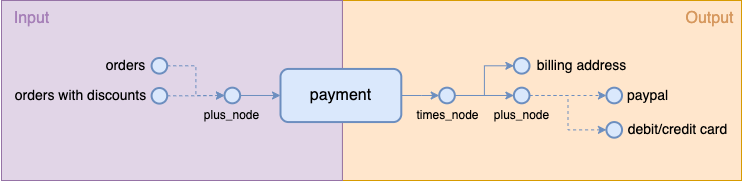
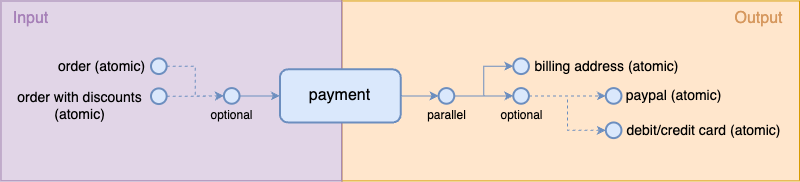
docs(overleaf): editing background

diff --git a/overleaf/chapters/background.tex b/overleaf/chapters/background.tex
@@ -2,22 +2,37 @@
 % Business Process Management (BPM) is a methodology that involves designing, controlling, and analysing business processes to support organisations \cite{bpmdefinition}. 
 % BPM's stages is defined differently depending on references \cite{bpmlifecycles, bpmlifecycles2, bpmlifecycles3}; however, it generally consists of at least four stages: i) analysing; ii) modeling; iii) implementing; iv) executing.
 % As for BPM tools, they are software solutions that support organisations in all stages of BPM with little to no coding knowledge. As a consequence, BPM tools are widely used in various industries.
-Business Process Management (BPM) is a concept that assist business analysts in planning, monitoring and analysing business processes to support organisations \cite{bpmdefinition}. BPM could be separated into stages depending on references being used \cite{bpmlifecycles, bpmlifecycles3, bpmlifecycles2}, but generally, it consists of four different stages: i) analysing; ii) modelling; iii) implementing; iv) execution. Software that makes use of this concept in assisting business analysts model processes with little to no coding knowledge is known as BPM tools.
+Business Process Management (BPM) is a discipline that assist business analysts in planning, monitoring and analysing processes to support businesses \cite{bpmdefinition}. BPM methodologies could generally be separated into four different stages: i) analysing; ii) modelling; iii) implementing; iv) execution \cite{bpmlifecycles, bpmlifecycles3, bpmlifecycles2}.
+BPM tools are software that makes use of this concept in assisting business analysts model processes with little to no coding knowledge to help businesses build automatic streamlining and reduce wastes in manufacturing processes 
+\cite{bpmtoolwaste}.
 
-One of the advantages of using BPM tools is the orchestration between systems, humans, and workflows \cite{bpmstrength}. This improves the overall efficiency of business processes in organisations \cite{bpmbenefits}. BPM tools use checklists that are integrated as part of a workflow to efficiently coordinate humans and workflows. For example, Bizagi \cite{bizagi}, one of the famous BPM tools, can construct checklists or forms within its automated workflows and connect the checklists to the following processes using the shared database technique. Nintex \cite{nintext} is another widely used BPM tool that also adopts the idea of checklist and implements it in their environment. This provides a variety of options for workflow users to interact with the workflows in the system.
+One of the advantages of using BPM tools is the orchestration between systems, humans, and workflows \cite{bpmstrength}.
+This improves the efficiency of business processes in organisations by formalising processing into structured methods that can be monitored, analysed, and automated easily \cite{bpmbenefits}.
+BPM tools use checklists that are integrated as part of a workflow to efficiently coordinate humans and workflows by integrating inputs into the workflow. For example, Bizagi \cite{bizagi}, one of the widely known BPM tools, can construct checklists or forms within its automated workflows and connect the checklists to the following processes using the shared database technique. Nintex \cite{nintext} is another widely used BPM tool that also adopts the idea of checklist and implements it in their environment. This provides a variety of options for workflow users to interact with the workflows in the system.
 
 
-\section{WorkflowFM: A logic-based framework for formal process specification and composition}
+\section{WorkflowFM}
 \label{background:workflowfm}
 
-% WorkflowFM \cite{papapanagiotou2017workflowfm} is a logic-based BPM tool developed by researchers from the University of Edinburgh. Being a logic-based framework means all the inputs, outputs, and processes follow the validation defined by the framework.
-% Each process is validated by WorkflowFM to ensure that it is logically valid and functional as a workflow.
-As a logic-based BPM tool, WorkflowFM differs from other frameworks in that it requires inputs and outputs in each process to match when connected to other processes, as opposed to most BPM tools which accept any viable XML format when creating a workflow.
+WorkflowFM \cite{papapanagiotou2017workflowfm} is a logic-based BPM tool developed by researchers from the University of Edinburgh. Being a logic-based framework means all the inputs, outputs, and processes follow the validation defined by the framework.
+Each process is validated by WorkflowFM to ensure that it is logically valid, correctly matched with neighbour processes, and functional as a workflow.
+As a logic-based BPM tool, WorkflowFM differs from other frameworks in that processes are defined based on inputs and outputs with preconditions, as opposed to most BPM tools which accept any Business Process Model and Notation (BPMN) \cite{bpmn} format when creating a workflow. Moreover, it requires the inputs and outputs in each process to match when connected to other processes.
 % Additionally, WorkflowFM requires defining data models for each input and output
 % only require a XML pattern to create a workflow as XML is the standardised format for BPM tools.
 % unlike various BPM tools which follows the XML Process Definition Language (XPDL), the standard format for interchanging process definitions between different BPM tools \cite{xmlpdl}.
 
-WorkflowFM's system architecture, as shown in Figure \ref{fig:workflowfm-system}, includes two main components: modelling and execution. Modelling is the part that allows workflow users to create workflows and validates workflows by the reasoner. On the other hand, execution is the component that operates workflows that has been deployed. Execution contains the execution engine, the simulation engine, the checklist generation, and the dashboard. The checklist generation connects with the execution engine as an extension to generate checklists and allow people to perform tasks for executing workflow processes.
+
+
+WorkflowFM's system architecture, as shown in Figure \ref{fig:workflowfm-system}, includes two main groups of components: modelling and execution. Modelling is the part that allows users to create workflows, and execution is the component that operates deployed workflows in the system. This project aims to build a checklist generation tool as an extension to the execution engine to help generate checklists in WorkflowFM and allow people to perform tasks through checklists for executing workflow processes.
+
+
+% , which contains two components: composer and reasoner. The composer component assists users in creating workflows, while the reasoner validates that the workflows produced by the composer adhere to the defined inputs and outputs.
+% On the other hand, m and contains three components: execution engine, simulation engine, and dashboard.
+% The checklist generation will be placing in the execution group as an extension to the execution engine.
+
+% WorkflowFM's system architecture, as shown in Figure \ref{fig:workflowfm-system}, includes two main groups of components: modelling and execution. Modelling is the part that allows users to create workflows, which contains two components: composer and reasoner. The composer component assists users in creating workflows, and the reasoner validates that the workflows produced by the composer adhere to the defined inputs and outputs.
+% On the other hand, execution is the component that operates deployed workflows in the system. Execution contains execution engine, simulation engine, and dashboard.
+% This project aimed to build was a checklist generation tool that connects with the execution engine as an extension to generate checklists and allow people to perform tasks for executing workflow processes.
 % The execution engine and the simulation engine are integrated with each other and directly connect to the dashboard to visualise deployed workflows. Furthermore, the checklist generation connects with the execution engine as an extension to generate checklists and allow people to perform tasks for workflows.
 % Unlike Bizagi or Nintex, WorkflowFM is a logic-based framework which 
 
@@ -32,18 +47,36 @@ As of now, WorkflowFM has been used in the healthcare and manufacturing domains.
 
 % As of now, WorkflowFM has been used in the healthcare domain \cite{papapanagiotou2014formal} and expanding to the manufacturing domain. With in increasing of ..., this is why a checklist generation tool is needed in WorkflowFM.
 
-\section{WorkflowFM's Process Input and Output}
+\section{WorkflowFM's Process}
 \label{background:input_output}
 
-The JSON format \cite{json} is used in WorkflowFM to construct processes. The JSON includes several fields that are used in different parts of the system, which can be seen in Figure \ref{fig:workflowfm_json}. However, the name, input and output of each process are the only requirements to generate a resource-based checklist template.
-% Each model consists of \verb!type!, \verb!name!, and \verb!args!. There are only three types in \verb!type!: \verb!var!, \verb!plus!, and \verb!times!. 
+Each process in WorkflowFM contains a unique name and a group of inputs and a group of outputs. Each input and output is represented as a node that can be either atomic, parallel, or optional. 
+An atomic is a representation of an entity \cite{entity} that exists in the system,
+a parallel is a representation of selecting every children node,
+and an optional is a representation of selecting one among all the children nodes.
+Combining the nodes together would form a tree of nodes, which a leaf node must be an atomic.
+
+For example, according to the running example in Section \ref{running_example}, the process's name is \verb!Payment Process!, the input contains an optional node that can be either an order (\verb!order!) or an order with discounts (\verb!order with discounts!), and the output contains a parallel node of the billing address (\verb!billing address!) and an optional node that can be either PayPal (\verb!paypal!) or Debit/Credit card (\verb!debit/credit card!). A visualisation of the inputs and outputs can be visualised in Figure \ref{fig:type_nodes_example}.
 
 \begin{figure}[ht!]
     \centering
-    \includegraphics[width=0.75\textwidth]{overleaf/images/workflowfm_json.png}
-    \caption{WorkflowFM's Process JSON}
-    \label{fig:workflowfm_json}
+    \includegraphics[width=\textwidth]{overleaf/images/type_nodes_example.png}
+    \caption{Inputs (Left) and Outputs (Right) Visualisation}
+    \label{fig:type_nodes_example}
 \end{figure}
+
+
+% A JSON-based format \cite{json} is used in WorkflowFM to specify processes.
+% The JSON format used in WorkflowFM includes several fields that are used in different parts of the system, which can be seen in Figure \ref{fig:workflowfm_json}.
+% However, the name, input and output of each process are the only requirements to generate a resource-based checklist template.
+% % Each model consists of \verb!type!, \verb!name!, and \verb!args!. There are only three types in \verb!type!: \verb!var!, \verb!plus!, and \verb!times!. 
+
+% \begin{figure}[ht!]
+%     \centering
+%     \includegraphics[width=0.75\textwidth]{overleaf/images/workflowfm_json.png}
+%     \caption{WorkflowFM's Process JSON}
+%     \label{fig:workflowfm_json}
+% \end{figure}
 
 
 % Each input and output node can only be in one of the three types including \verb!var!, \verb!times!, and \verb!plus!.
@@ -57,15 +90,15 @@ The JSON format \cite{json} is used in WorkflowFM to construct processes. The JS
 
 % A process contains nodes from both input and output sides. A node is a representation between three things: a data model, a times operator, and a plus operator. A data model will be referred as the \verb!var! type. A times operator and a plus operator will be referred as \verb!times! and \verb!plus! accordingly. Both \verb!times! and \verb!plus! nodes must contain children since they are not data models. Furthermore, their children can either be \verb!var!, \verb!times!, and \verb!plus!. However, if a child node is either \verb!times! or \verb!plus!, it needs to recursively continue having children. A \verb!var! child, however, contains no children and acts as a terminal node. \verb!times! and \verb!plus! are different on how they operate. \verb!times! combines the children together as one large data model, while \verb!plus! only selects one of its children to be the data model representing that node.
 
-The input and output of a process are represented as nodes. A node can either be an atomic entity (\verb!var!) \cite{entity} or an operator (\verb!times! or \verb!plus!).
-An atomic entity represents an entity in the system's database.
-An operation which combines multiple nodes is called a times operator, while which selects an entity between a group of nodes is called a plus operator.
-Combining both entities and operators would form into a tree of nodes, which a leaf node of this tree must be an entity.
+% The input and output of a process are represented as nodes. A node can either be an atomic entity (\verb!var!) \cite{entity} or an operator (\verb!times! or \verb!plus!).
+% An atomic entity represents an entity in the system's database.
+% An operation which combines multiple nodes is called a times operator, while which selects an entity between a group of nodes is called a plus operator.
+% Combining both entities and operators would form into a tree of nodes, which a leaf node of this tree must be an entity.
 
-For example, in Figure \ref{fig:process_flows} | which has the JSON format provided in Appendix \ref{appendix:fig:example_json}, this is a payment process that receives \verb!orders! and \verb!payment_method! as the input and returns \verb!order_receipt! and either \verb!credit_card_receipt! or \verb!change! as the output depending on what \verb!payment_method! coming in.
-All five of them are terminal nodes and data models of this process. On the input part, both \verb!orders! and \verb!payment_method! are connected to a \verb!times! node indicating that both data models are compulsory. Meanwhile, \verb!credit_card_receipt! and \verb!change! are connected to a \verb!plus! node indicating either one between them can be selected as the representing data model; however, not both. On top of that, the \verb!plus! node is connected to a \verb!times! node along with \verb!order_receipt! indicating both of them are compulsory.
+% For example, in Figure \ref{fig:process_flows} | which has the JSON format provided in Appendix \ref{appendix:fig:example_json}, this is a payment process that receives \verb!orders! and \verb!payment_method! as the input and returns \verb!order_receipt! and either \verb!credit_card_receipt! or \verb!change! as the output depending on what \verb!payment_method! coming in.
+% All five of them are terminal nodes and data models of this process. On the input part, both \verb!orders! and \verb!payment_method! are connected to a \verb!times! node indicating that both data models are compulsory. Meanwhile, \verb!credit_card_receipt! and \verb!change! are connected to a \verb!plus! node indicating either one between them can be selected as the representing data model; however, not both. On top of that, the \verb!plus! node is connected to a \verb!times! node along with \verb!order_receipt! indicating both of them are compulsory.
 
-Ultimately, the input of this payment process is ``\verb!orders! and \verb!payment_method!"; and the output of this payment process is either ``\verb!order_receipt! and \verb!change!" or ``\verb!order_receipt! and \verb!credit_card_receipt!".
+% Ultimately, the input of this payment process is ``\verb!orders! and \verb!payment_method!"; and the output of this payment process is either ``\verb!order_receipt! and \verb!change!" or ``\verb!order_receipt! and \verb!credit_card_receipt!".
 
 % the input node is a \verb!plus! and contains two children: \verb!input_var_node_1! and \verb!input_times_node!. Moreover, one of the children is a \verb!times! and contains two children: \verb!input_var_node_2! and \verb!input_var_node_3!. Ultimately, the input of this process can be either:
 
@@ -79,24 +112,34 @@ Ultimately, the input of this payment process is ``\verb!orders! and \verb!payme
 
 % That means either \verb!input_var_node_1! or \verb!input_var_node_2! can be the input data model of the process. Meanwhile, the output node is \verb!times! and also contains two children. In contrast to \verb!plus!, \verb!output_var_node_1! and \verb!output_var_node_2! are the output data models of the process.
 
-\begin{figure}[ht!]
-    \centering
-    \includegraphics[width=\textwidth]{overleaf/images/process_flows.png}
-    \caption{Example Process}
-    \label{fig:process_flows}
-\end{figure}
+% \begin{figure}[ht!]
+%     \centering
+%     \includegraphics[width=\textwidth]{overleaf/images/process_flows.png}
+%     \caption{Example Process}
+%     \label{fig:process_flows}
+% \end{figure}
 
 \section{Generation of structured checklists from formal \\resource-based workflow models}
 \label{background:chens_design}
 % This is an MSc project from the previous year written by Yefei Chen \cite{checklistdesign}. Chen has designed the user interface for WorkflowFM's checklist generation tool as well as solved some of the theoretical challenges in the design, such as function-flow chart and data model design. Chen's design consists of six features: i) main page; ii) canvas; iii) edit checklist dependencies; iv) process checklist; v) finished checklist; vi) design of checklist. In the end, the system usability scale questionnaire (SUS) score was mediocre, with a score of 56.5. However, Chen discussed the design weaknesses and provided an analysis of them. Consequently, the results are extremely important since we could continue improving the design based on the analysis.
 
-A design of a resource-based checklist generator has been proposed in Yefei Chen's MSc dissertation \cite{checklistdesign}. Chen designed this tool based on the concept of WorkflowFM that contains all the data models of the workflow processes in the system. The design utilises the benefits of WorkflowFM and gives users the ability to develop checklists that link to data models of workflow processes via checklist dependencies.
-The design consists of four user interfaces with functionalities on each screen as follow:
+A design of a resource-based checklist generator has been proposed in Yefei Chen's MSc dissertation \cite{checklistdesign}.
+Chen's design is based on the fact that WorkflowFM contains all the data models of the workflow processes in the system and utilises this fact by allowing the checklist generation tool being able to link dependencies with the checklist, which will be further explained in Section \ref{background:dependencies}. This is the feature that we adopted into our project.
 
-\begin{itemize}
-    \item \textbf{Main Page} is the landing screen of the checklist generator. It can be divided into three sections: \verb!Start A Checklist!, \verb!In Progress!, and \verb!Finished!. The \verb!Start A Checklist! section will bring the user to Canvas screen to create a template. The \verb!In Progress! section is the section that contains all the checklists that has already been started, but not yet finished. And lastly, the \verb!Finished! section contains all the finished checklists.
-    \item \textbf{Canvas} is the building templates screen. It allows users to custom the title, question names, types, and other things in checklists.
-    \item \textbf{Edit Checklist Dependencies} is the screen to manage dependencies in a template. Once a template has been created in Canvas, the designer sometimes needs to adjust dependencies between the input and output. That is to allow the system to create connections between components.
-    \item \textbf{Process Checklist} is the screen of a finished template. It displays the information according to the designed template in Canvas. A finished template, or checklist, in this screen will be used to perform tasks for workflow processes in WorkflowFM.
-\end{itemize}
+Although our project was building on top of Chen's design, Chen's design could not be used to 
+
+
+\section{Dependencies}
+
+\section{Data Models}
+
+
+% The design consists of four user interfaces with functionalities on each screen as follow:
+
+% \begin{itemize}
+%     \item \textbf{Main Page} is the landing screen of the checklist generator. It can be divided into three sections: \verb!Start A Checklist!, \verb!In Progress!, and \verb!Finished!. The \verb!Start A Checklist! section will bring the user to Canvas screen to create a template. The \verb!In Progress! section is the section that contains all the checklists that has already been started, but not yet finished. And lastly, the \verb!Finished! section contains all the finished checklists.
+%     \item \textbf{Canvas} is the building templates screen. It allows users to custom the title, question names, types, and other things in checklists.
+%     \item \textbf{Edit Checklist Dependencies} is the screen to manage dependencies in a template. Once a template has been created in Canvas, the designer sometimes needs to adjust dependencies between the input and output. That is to allow the system to create connections between components.
+%     \item \textbf{Process Checklist} is the screen of a finished template. It displays the information according to the designed template in Canvas. A finished template, or checklist, in this screen will be used to perform tasks for workflow processes in WorkflowFM.
+% \end{itemize}
 

diff --git a/overleaf/chapters/introduction.tex b/overleaf/chapters/introduction.tex
@@ -198,3 +198,21 @@ We aimed to evaluate two crucial things: usability and accuracy. The usability w
 
 % The usability scores were used to calculate the System Usability Scale (SUS) score \cite{susscores} to evaluate how good the prototype was. Additionally, the results from each task were recorded anonymously and used to compute the accuracy scores to evaluate how .
 
+\section{Running Example}
+\label{running_example}
+We are giving a running example which will be used as the reference example across the whole dissertation.
+
+\begin{figure}[ht!]
+    \centering
+    \includegraphics[width=\textwidth]{overleaf/images/template_example.png}
+    \caption{Running Example}
+    \label{fig:template_example}
+\end{figure}
+
+This example process in Figure \ref{fig:template_example} is an online payment process that computes an order with or without discounts coming in and asks the customer for the billing address and the payment method, which can be either PayPal or Debit/Credit card.
+
+The order without discounts (\verb!order!) contains the order number (\verb!order id!) and the total price (\verb!total price!). The order with discounts contains the order number (\verb!order id!), the total price (\verb!total price!), and the discount percentage (\verb!discount!).
+% additional to the order without discounts.
+The billing address contains the home address (\verb!home address!) and country \verb!country! for the address in the receipt. The PayPal method only contains the PayPal account (\verb!account!). The Debit/Credit card contains the card number (\verb!card number!), the expired date (\verb!expired date!), and the security code (\verb!security code!).
+
+% We will assume that \verb!orders!, being an entity, contains two fields: \verb!order id! and \verb!total price!; \verb!orders with discounts! contains three fields: \verb!order id!, \verb!total price!, and \verb!discount percent!; \verb!billing address! contains two fields: \verb!home address! and \verb!country!; \verb!paypal! contains only \verb!paypal account!; and \verb!debit/credit card! contains three fields: \verb!card number!, \verb!expire date!, and \verb!security code!.

diff --git a/overleaf/chapters/design.tex b/overleaf/chapters/design.tex
@@ -124,17 +124,6 @@ According to section \ref{functional_spec}, we have grouped and categorised our 
 \label{checklist_strcuture}
 
 
-\begin{figure}[ht!]
-    \centering
-    \textit{This example will be used to help explain sections \ref{checklist_strcuture}, \ref{checklist_models}, and \ref{dependencies}.}
-    \includegraphics[width=\textwidth]{overleaf/images/template_example.png}
-    \caption{Example Process}
-    \label{fig:template_example}
-\end{figure}
-
-Given an example process in Figure \ref{fig:template_example}, we will assume this payment process needs a checklist for users to fill in billing address and either their debit/credit card information or their PayPal account. This process also has incoming input being either regular orders or orders with discounts.
-
-We will assume that \verb!orders!, being an entity, contains two fields: order id and total price; \verb!orders with discounts! contains three fields: order id, total price, and discount code; \verb!billing address! contains two fields: home address and country; \verb!paypal! contains only paypal account; and \verb!debit/credit card! contains three fields: card number, expire date, and security code.
 
 
 
